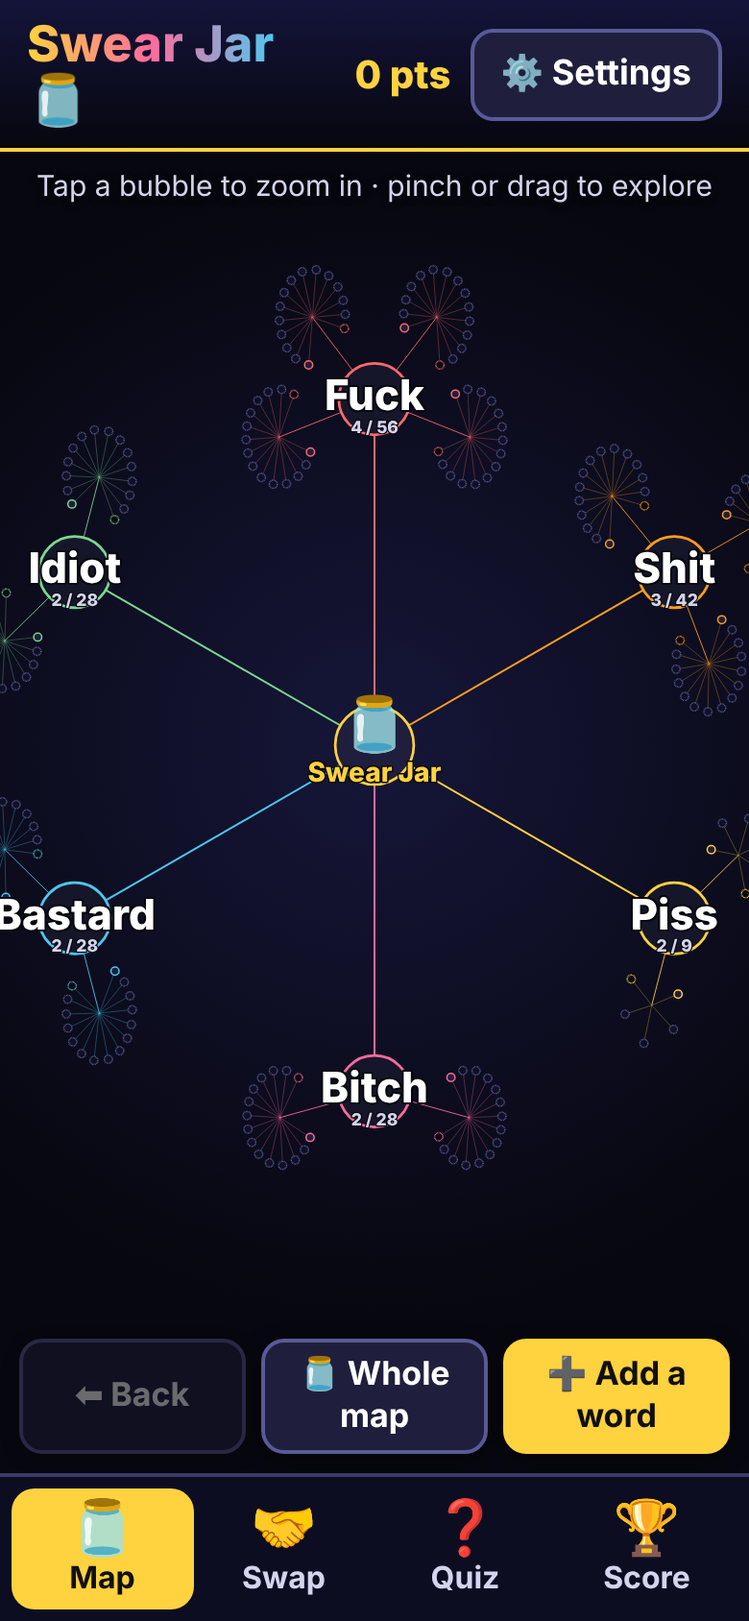
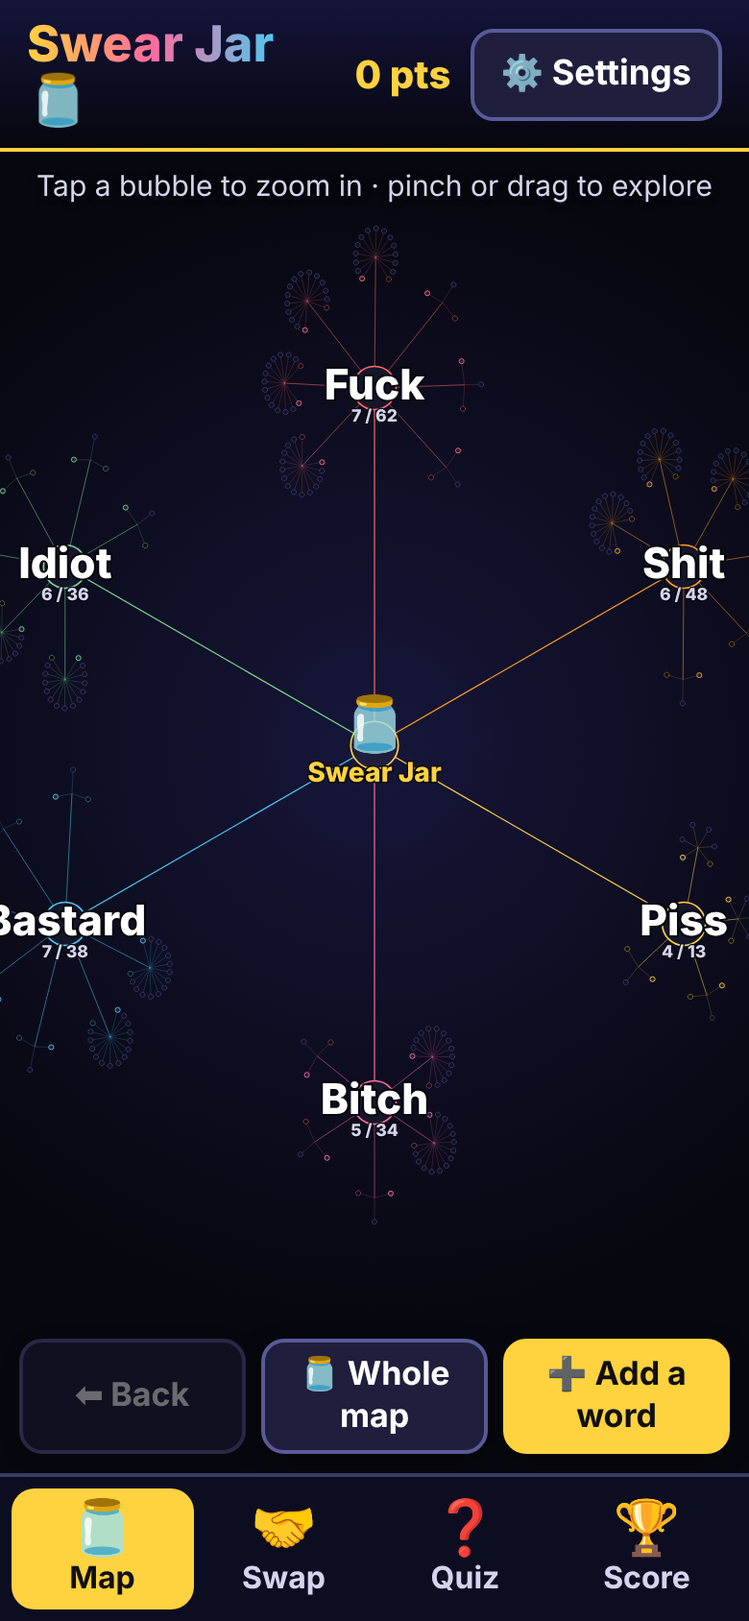
Add 20 checked Thai insults to the map, wrap long branch names, oval hub layout
Claude-Session: https://claude.ai/code/session_01YPnUbksUWiWfwngXyfLJkp

diff --git a/index.html b/index.html
@@ -2522,7 +2522,7 @@ var qrcode = function() {
 </script>
 <script>
 /* starter map: six basics, with equivalents taken from Speakeasy build 106 swearing tables (word|romanisation) */
-const SEED=[{"id":"fuck","en":"Fuck","vars":[{"id":"fuck","en":"Fuck!","w":{"en":"Fuck!","fr":"Putain !","zh":"卧槽！|wò cáo!","zt":"幹！|gàn!","yue":"屌！|diu2!","ja":"クソが！","ko":"씨발!","vi":"Đụ má!","ms":"Pukimak!","tl":"Putang ina!","es":"¡Chingada madre!","esp":"¡Joder!","esa":"¡La concha de la lora!","th":"เหี้ย!|hia!"}},{"id":"fuckoff","en":"Fuck off!","w":{"en":"Fuck off!","fr":"Dégage, putain !","zh":"滚蛋！|gǔn dàn!","zt":"滾開！|gǔn kāi!","yue":"躝開！|laan1 hoi1!","ja":"失せろ！","ko":"꺼져!","vi":"Cút đi!","ms":"Blah lah!","tl":"Lumayas ka!","es":"¡Vete a la chingada!","esp":"¡Vete a la mierda!","esa":"¡Andate a la mierda!","th":"ไสหัวไปเลย!|sai hua pai loei!"}},{"id":"fuckyou","en":"Fuck you!","w":{"en":"Fuck you!","fr":"Va te faire foutre !","zh":"去你妈的！|qù nǐ mā de!","zt":"幹你娘！|gàn nǐ niáng!","yue":"屌你老母！|diu2 nei5 lou5 mou2!","ja":"ふざけんな！","ko":"엿 먹어!","vi":"Đụ mẹ mày!","ms":"Pergi mampus!","tl":"Putang ina mo!","es":"¡Chinga tu madre!","esp":"¡Que te jodan!","esa":"¡Andá a cagar!","th":"พ่องมึง!|phong mueng!"}},{"id":"wtf","en":"What the fuck?","w":{"en":"What the fuck?","fr":"C'est quoi ce bordel ?","zh":"这他妈什么鬼？|zhè tā mā shén me guǐ?","zt":"這三小？|zhè sā xiǎo?","yue":"搞乜撚嘢呀？|gaau2 mat1 lan2 je5 aa3?","ja":"なんだよ、これ！？","ko":"이게 뭐야, 씨발?","vi":"Cái đéo gì vậy?","ms":"Apa benda ni, sial?","tl":"Ano ba 'to, putcha?","es":"¿Qué chingados?","esp":"¿Qué coño...?","esa":"¿Qué carajo?","th":"เหี้ยอะไรวะ?|hia a-rai wa?"}}]},{"id":"shit","en":"Shit","vars":[{"id":"shit","en":"Shit!","w":{"en":"Shit!","fr":"Merde !","zh":"妈的！|mā de!","zt":"靠北！|kào běi!","yue":"仆街！|puk1 gaai1!","ja":"くそっ！","ko":"젠장!","vi":"Chết tiệt!","ms":"Sial!","tl":"Leche!","es":"¡Mierda!","esp":"¡Mierda!","esa":"¡Mierda!","th":"ชิบหาย!|chip haai!"}},{"id":"holyshit","en":"Holy shit!","w":{"en":"Holy shit!","fr":"Putain de merde !","zh":"我靠！|wǒ kào!","zt":"我的天，靠！|wǒ de tiān, kào!","yue":"嘩，屌！|waa3, diu2!","ja":"マジかよ！","ko":"헐, 씨발!","vi":"Vãi!","ms":"Alamak, sial!","tl":"Putek!","es":"¡No mames!","esp":"¡Hostia!","esa":"¡Uh, la puta!","th":"เชี่ย!|chia!"}},{"id":"bullshit","en":"Bullshit!","w":{"en":"Bullshit!","fr":"C'est des conneries !","zh":"放屁！|fàng pì!","zt":"屁啦！|pì la!","yue":"車大炮！|ce1 daai6 paau3!","ja":"嘘つけ！","ko":"개소리!","vi":"Nói láo!","ms":"Merepek!","tl":"Kalokohan!","es":"¡Puras pendejadas!","esp":"¡Eso es una gilipollez!","esa":"¡Puro verso!","th":"ตอแหล!|tor-lae!"}}]},{"id":"piss","en":"Piss","vars":[{"id":"pissoff","en":"Piss off!","w":{"en":"Piss off!","fr":"Dégage !","es":"¡Lárgate!","de":"Verpiss dich!","th":"ไปให้พ้น!|pai hai phon!"}},{"id":"pissed","en":"I am pissed off","w":{"en":"I am pissed off","fr":"Ça me fait chier","es":"Estoy encabronado","th":"โมโหชิบหาย|moh-ho chip haai"}}]},{"id":"bitch","en":"Bitch","vars":[{"id":"bitch","en":"Bitch!","w":{"en":"Bitch!","fr":"Salope !","zh":"婊子！|biǎo zi!","zt":"賤人！|jiàn rén!","yue":"賤人！|zin6 jan4!","ja":"クソ女！","ko":"썅년!","vi":"Con đĩ!","ms":"Sundal!","tl":"Puta!","es":"¡Perra!","esp":"¡Zorra!","esa":"¡Puta!","th":"อีดอก!|ii dok!"}},{"id":"sob","en":"Son of a bitch!","w":{"en":"Son of a bitch!","fr":"Fils de pute !","zh":"狗娘养的！|gǒu niáng yǎng de!","zt":"狗娘養的！|gǒu niáng yǎng de!","yue":"契弟！|kai3 dai2!","ja":"くそったれ！","ko":"개자식!","vi":"Đồ chó đẻ!","ms":"Anak haram!","tl":"Anak ng puta!","es":"¡Hijo de la chingada!","esp":"¡Hijo de puta!","esa":"¡Hijo de puta!","th":"ไอ้ลูกหมา!|ai luuk maa!"}}]},{"id":"bastard","en":"Bastard","vars":[{"id":"bastard","en":"Bastard!","w":{"en":"Bastard!","fr":"Salaud !","zh":"混蛋！|hún dàn!","zt":"混蛋！|hún dàn!","yue":"衰人！|seoi1 jan4!","ja":"この野郎！","ko":"나쁜 놈!","vi":"Thằng chó!","ms":"Keparat!","tl":"Hayop ka!","es":"¡Cabrón!","esp":"¡Cabrón!","esa":"¡Turro!","th":"ไอ้เลว!|ai leo!"}},{"id":"asshole","en":"Asshole!","w":{"en":"Asshole!","fr":"Connard !","zh":"王八蛋！|wáng bā dàn!","zt":"王八蛋！|wáng bā dàn!","yue":"冚家剷！|ham6 gaa1 caan2!","ja":"クソ野郎！","ko":"개새끼!","vi":"Đồ khốn!","ms":"Bangsat!","tl":"Gago!","es":"¡Pendejo!","esp":"¡Gilipollas!","esa":"¡Forro!","th":"ไอ้สัตว์!|ai sat!"}}]},{"id":"idiot","en":"Idiot","vars":[{"id":"idiot","en":"Idiot!","w":{"en":"Idiot!","fr":"Imbécile !","zh":"白痴！|bái chī!","zt":"白癡！|bái chī!","yue":"白痴！|baak6 ci1!","ja":"バカ！","ko":"바보!","vi":"Đồ ngu!","ms":"Bodoh!","tl":"Tanga!","es":"¡Idiota!","esp":"¡Idiota!","esa":"¡Pelotudo!","th":"ไอ้โง่!|ai ngo!"}},{"id":"dumbass","en":"Dumbass!","w":{"en":"Dumbass!","fr":"Espèce de con !","zh":"傻逼！|shǎ bī!","zt":"智障！|zhì zhàng!","yue":"戇鳩！|ngong6 gau1!","ja":"アホ！","ko":"병신!","vi":"Óc chó!","ms":"Bangang!","tl":"Bobo!","es":"¡Baboso!","esp":"¡Imbécil!","esa":"¡Boludo!","th":"ไอ้ควาย!|ai khwaai!"}}]}];
+const SEED=[{"id": "fuck", "en": "Fuck", "vars": [{"id": "fuck", "en": "Fuck!", "w": {"en": "Fuck!", "fr": "Putain !", "zh": "卧槽！|wò cáo!", "zt": "幹！|gàn!", "yue": "屌！|diu2!", "ja": "クソが！", "ko": "씨발!", "vi": "Đụ má!", "ms": "Pukimak!", "tl": "Putang ina!", "es": "¡Chingada madre!", "esp": "¡Joder!", "esa": "¡La concha de la lora!", "th": "เหี้ย!|hia!"}}, {"id": "fuckoff", "en": "Fuck off!", "w": {"en": "Fuck off!", "fr": "Dégage, putain !", "zh": "滚蛋！|gǔn dàn!", "zt": "滾開！|gǔn kāi!", "yue": "躝開！|laan1 hoi1!", "ja": "失せろ！", "ko": "꺼져!", "vi": "Cút đi!", "ms": "Blah lah!", "tl": "Lumayas ka!", "es": "¡Vete a la chingada!", "esp": "¡Vete a la mierda!", "esa": "¡Andate a la mierda!", "th": "ไสหัวไปเลย!|sai hua pai loei!"}}, {"id": "fuckyou", "en": "Fuck you!", "w": {"en": "Fuck you!", "fr": "Va te faire foutre !", "zh": "去你妈的！|qù nǐ mā de!", "zt": "幹你娘！|gàn nǐ niáng!", "yue": "屌你老母！|diu2 nei5 lou5 mou2!", "ja": "ふざけんな！", "ko": "엿 먹어!", "vi": "Đụ mẹ mày!", "ms": "Pergi mampus!", "tl": "Putang ina mo!", "es": "¡Chinga tu madre!", "esp": "¡Que te jodan!", "esa": "¡Andá a cagar!", "th": "พ่องมึง!|phong mueng!"}}, {"id": "wtf", "en": "What the fuck?", "w": {"en": "What the fuck?", "fr": "C'est quoi ce bordel ?", "zh": "这他妈什么鬼？|zhè tā mā shén me guǐ?", "zt": "這三小？|zhè sā xiǎo?", "yue": "搞乜撚嘢呀？|gaau2 mat1 lan2 je5 aa3?", "ja": "なんだよ、これ！？", "ko": "이게 뭐야, 씨발?", "vi": "Cái đéo gì vậy?", "ms": "Apa benda ni, sial?", "tl": "Ano ba 'to, putcha?", "es": "¿Qué chingados?", "esp": "¿Qué coño...?", "esa": "¿Qué carajo?", "th": "เหี้ยอะไรวะ?|hia a-rai wa?"}}, {"id": "motherfucker", "en": "Motherfucker!", "w": {"en": "Motherfucker!", "th": "เย็ดแม่!|yet mae!"}}, {"id": "youfucker", "en": "You fucker!", "w": {"en": "You fucker!", "th": "ไอ้เหี้ย!|ai hia!"}}, {"id": "whatthehell", "en": "What the hell?", "w": {"en": "What the hell?", "th": "อะไรวะ?|a-rai wa?"}}]}, {"id": "shit", "en": "Shit", "vars": [{"id": "shit", "en": "Shit!", "w": {"en": "Shit!", "fr": "Merde !", "zh": "妈的！|mā de!", "zt": "靠北！|kào běi!", "yue": "仆街！|puk1 gaai1!", "ja": "くそっ！", "ko": "젠장!", "vi": "Chết tiệt!", "ms": "Sial!", "tl": "Leche!", "es": "¡Mierda!", "esp": "¡Mierda!", "esa": "¡Mierda!", "th": "ชิบหาย!|chip haai!"}}, {"id": "holyshit", "en": "Holy shit!", "w": {"en": "Holy shit!", "fr": "Putain de merde !", "zh": "我靠！|wǒ kào!", "zt": "我的天，靠！|wǒ de tiān, kào!", "yue": "嘩，屌！|waa3, diu2!", "ja": "マジかよ！", "ko": "헐, 씨발!", "vi": "Vãi!", "ms": "Alamak, sial!", "tl": "Putek!", "es": "¡No mames!", "esp": "¡Hostia!", "esa": "¡Uh, la puta!", "th": "เชี่ย!|chia!"}}, {"id": "bullshit", "en": "Bullshit!", "w": {"en": "Bullshit!", "fr": "C'est des conneries !", "zh": "放屁！|fàng pì!", "zt": "屁啦！|pì la!", "yue": "車大炮！|ce1 daai6 paau3!", "ja": "嘘つけ！", "ko": "개소리!", "vi": "Nói láo!", "ms": "Merepek!", "tl": "Kalokohan!", "es": "¡Puras pendejadas!", "esp": "¡Eso es una gilipollez!", "esa": "¡Puro verso!", "th": "ตอแหล!|tor-lae!"}}, {"id": "damn", "en": "Damn!", "w": {"en": "Damn!", "th": "ห่า!|haa!"}}, {"id": "shitdriving", "en": "Shit driving!", "w": {"en": "Shit driving!", "th": "ขับรถเหี้ยๆ!|khap rot hia hia!"}}, {"id": "ohno", "en": "Oh no!", "w": {"en": "Oh no!", "th": "เวรกรรม!|wen gam!"}}]}, {"id": "piss", "en": "Piss", "vars": [{"id": "pissoff", "en": "Piss off!", "w": {"en": "Piss off!", "fr": "Dégage !", "es": "¡Lárgate!", "de": "Verpiss dich!", "th": "ไปให้พ้น!|pai hai phon!"}}, {"id": "pissed", "en": "I am pissed off", "w": {"en": "I am pissed off", "fr": "Ça me fait chier", "es": "Estoy encabronado", "th": "โมโหชิบหาย|moh-ho chip haai"}}, {"id": "getlost", "en": "Get lost!", "w": {"en": "Get lost!", "th": "ไปให้พ้น!|pai hai phon!"}}, {"id": "annoying", "en": "So annoying!", "w": {"en": "So annoying!", "th": "ลำไย!|lam-yai!"}}]}, {"id": "bitch", "en": "Bitch", "vars": [{"id": "bitch", "en": "Bitch!", "w": {"en": "Bitch!", "fr": "Salope !", "zh": "婊子！|biǎo zi!", "zt": "賤人！|jiàn rén!", "yue": "賤人！|zin6 jan4!", "ja": "クソ女！", "ko": "썅년!", "vi": "Con đĩ!", "ms": "Sundal!", "tl": "Puta!", "es": "¡Perra!", "esp": "¡Zorra!", "esa": "¡Puta!", "th": "อีดอก!|ii dok!"}}, {"id": "sob", "en": "Son of a bitch!", "w": {"en": "Son of a bitch!", "fr": "Fils de pute !", "zh": "狗娘养的！|gǒu niáng yǎng de!", "zt": "狗娘養的！|gǒu niáng yǎng de!", "yue": "契弟！|kai3 dai2!", "ja": "くそったれ！", "ko": "개자식!", "vi": "Đồ chó đẻ!", "ms": "Anak haram!", "tl": "Anak ng puta!", "es": "¡Hijo de la chingada!", "esp": "¡Hijo de puta!", "esa": "¡Hijo de puta!", "th": "ไอ้ลูกหมา!|ai luuk maa!"}}, {"id": "slut", "en": "Slut!", "w": {"en": "Slut!", "th": "แรด!|raet!"}}, {"id": "whore", "en": "Whore!", "w": {"en": "Whore!", "th": "กะหรี่!|ka-rii!"}}, {"id": "sonofawhore", "en": "Son of a whore!", "w": {"en": "Son of a whore!", "th": "ลูกกะหรี่!|luuk ka-rii!"}}]}, {"id": "bastard", "en": "Bastard", "vars": [{"id": "bastard", "en": "Bastard!", "w": {"en": "Bastard!", "fr": "Salaud !", "zh": "混蛋！|hún dàn!", "zt": "混蛋！|hún dàn!", "yue": "衰人！|seoi1 jan4!", "ja": "この野郎！", "ko": "나쁜 놈!", "vi": "Thằng chó!", "ms": "Keparat!", "tl": "Hayop ka!", "es": "¡Cabrón!", "esp": "¡Cabrón!", "esa": "¡Turro!", "th": "ไอ้เลว!|ai leo!"}}, {"id": "asshole", "en": "Asshole!", "w": {"en": "Asshole!", "fr": "Connard !", "zh": "王八蛋！|wáng bā dàn!", "zt": "王八蛋！|wáng bā dàn!", "yue": "冚家剷！|ham6 gaa1 caan2!", "ja": "クソ野郎！", "ko": "개새끼!", "vi": "Đồ khốn!", "ms": "Bangsat!", "tl": "Gago!", "es": "¡Pendejo!", "esp": "¡Gilipollas!", "esa": "¡Forro!", "th": "ไอ้สัตว์!|ai sat!"}}, {"id": "youbastard", "en": "You bastard!", "w": {"en": "You bastard!", "th": "ไอ้เวร!|ai wen!"}}, {"id": "scumbag", "en": "Scumbag!", "w": {"en": "Scumbag!", "th": "ไอ้ระยำ!|ai ra-yam!"}}, {"id": "cuntface", "en": "Cunt face!", "w": {"en": "Cunt face!", "th": "หน้าหี!|naa hii!"}}, {"id": "dickhead", "en": "Dickhead!", "w": {"en": "Dickhead!", "th": "หัวควย!|hua kuay!"}}, {"id": "footface", "en": "Face like a foot!", "w": {"en": "Face like a foot!", "th": "หน้าส้นตีน!|naa son tiin!"}}]}, {"id": "idiot", "en": "Idiot", "vars": [{"id": "idiot", "en": "Idiot!", "w": {"en": "Idiot!", "fr": "Imbécile !", "zh": "白痴！|bái chī!", "zt": "白癡！|bái chī!", "yue": "白痴！|baak6 ci1!", "ja": "バカ！", "ko": "바보!", "vi": "Đồ ngu!", "ms": "Bodoh!", "tl": "Tanga!", "es": "¡Idiota!", "esp": "¡Idiota!", "esa": "¡Pelotudo!", "th": "ไอ้โง่!|ai ngo!"}}, {"id": "dumbass", "en": "Dumbass!", "w": {"en": "Dumbass!", "fr": "Espèce de con !", "zh": "傻逼！|shǎ bī!", "zt": "智障！|zhì zhàng!", "yue": "戇鳩！|ngong6 gau1!", "ja": "アホ！", "ko": "병신!", "vi": "Óc chó!", "ms": "Bangang!", "tl": "Bobo!", "es": "¡Baboso!", "esp": "¡Imbécil!", "esa": "¡Boludo!", "th": "ไอ้ควาย!|ai khwaai!"}}, {"id": "crazy", "en": "You're crazy!", "w": {"en": "You're crazy!", "th": "ไอ้บ้า!|ai baa!"}}, {"id": "shameless", "en": "Shameless!", "w": {"en": "Shameless!", "th": "หน้าด้าน!|naa daan!"}}, {"id": "coward", "en": "Coward!", "w": {"en": "Coward!", "th": "ไอ้หน้าตัวเมีย!|ai naa tua mia!"}}, {"id": "foulmouth", "en": "Foul mouth!", "w": {"en": "Foul mouth!", "th": "ปากหมา!|paak maa!"}}]}];
 /* Learning both ways: the app speaks the player's own language (Thai so far), labels the map in it,
    and gives a "sounds like" line for every built-in word. */
 const TH={
@@ -2600,7 +2600,7 @@ ja:{fuck:"kuso ga!",fuckoff:"usero!",fuckyou:"fuzakenna!",wtf:"nan da yo, kore!?
 ko:{fuck:"ssibal!",fuckoff:"kkeojyeo!",fuckyou:"yeot meogeo!",wtf:"ige mwoya, ssibal?",shit:"jeonjang!",holyshit:"heol, ssibal!",bullshit:"gaesori!",bitch:"ssyangnyeon!",sob:"gaejasik!",bastard:"nappeun nom!",asshole:"gaesaekki!",idiot:"babo!",dumbass:"byeongsin!"}};
 /* how the English phrases sound, written in Thai letters, for Thai speakers learning English */
 const EN_SOUND={th:{fuck:"ฟัค!",fuckoff:"ฟัค ออฟ!",fuckyou:"ฟัค ยู!",wtf:"วอท เดอะ ฟัค?",shit:"ชิท!",holyshit:"โฮลี่ ชิท!",bullshit:"บูลชิท!",pissoff:"พิส ออฟ!",pissed:"ไอ แอม พิสท์ ออฟ",
-  bitch:"บิทช์!",sob:"ซัน ออฟ อะ บิทช์!",bastard:"บาสตาร์ด!",asshole:"แอสโฮล!",idiot:"อิเดียท!",dumbass:"ดัมแอส!"}};
+  bitch:"บิทช์!",sob:"ซัน ออฟ อะ บิทช์!",bastard:"บาสตาร์ด!",asshole:"แอสโฮล!",idiot:"อิเดียท!",dumbass:"ดัมแอส!",motherfucker:"มาเธอร์ฟัคเกอร์!",youfucker:"ยู ฟัคเกอร์!",whatthehell:"วอท เดอะ เฮล?",damn:"แดม!",shitdriving:"ชิท ไดรวิ่ง!",ohno:"โอ โน!",getlost:"เก็ท ลอสท์!",annoying:"โซ อะนอยอิ้ง!",slut:"สลัท!",whore:"ฮอร์!",sonofawhore:"ซัน ออฟ อะ ฮอร์!",youbastard:"ยู บาสตาร์ด!",scumbag:"สกัมแบ็ก!",cuntface:"คันท์ เฟซ!",dickhead:"ดิ๊กเฮด!",footface:"เฟซ ไลค์ อะ ฟุท!",crazy:"ยัวร์ เครซี่!",shameless:"เชมเลส!",coward:"คาวเวิร์ด!",foulmouth:"ฟาวล์ เมาธ์!"}};
 /* static text in the page: elements carry their English text in data-t, placeholders in data-tp */
 function applyStatic(){document.documentElement.lang=S.me.lang==="th"?"th":"en";
   document.querySelectorAll("[data-t]").forEach(e=>{e.textContent=T(e.dataset.t)});
@@ -2695,19 +2695,22 @@ function build(){
     root.kids.push(hn)});
   // spacing so that neighbours on a ring never overlap
   const chordR=(k,cr,arc)=>k<2?0:cr*1.08/Math.sin(arc/(2*k));
+  // long branch names wrap onto up to three short lines so pills stay narrow
+  const wrap=t=>{const out=[];let cur="";String(t).split(/\s+/).forEach(w=>{if(cur&&(cur+" "+w).length>11){out.push(cur);cur=w}else cur=cur?cur+" "+w:w});if(cur)out.push(cur);
+    if(out.length>3){out[2]=out.slice(2).join(" ");out.length=3}return out};
   root.kids.forEach(h=>{
     h.kids.forEach(v=>{const k=v.kids.length;
       // oval perimeter is about 7.82 x the short radius; only ARC of it is used
-      v.pw=Math.max(220,v.en.length*30+70);v.ring=Math.max(230,k*2*LEAF_CR*1.05/(7.82*ARC/(2*Math.PI)));v.ry=v.ring*OVAL;v.size=v.ry+LEAF_CR+24});
+      v.lines=wrap(v.en);v.pw=Math.max(220,Math.max(...v.lines.map(x=>x.length))*30+70);v.ph=v.lines.length*58+50;v.ring=Math.max(230,k*2*LEAF_CR*1.05/(7.82*ARC/(2*Math.PI)));v.ry=v.ring*OVAL;v.size=v.ry+LEAF_CR+24});
     const cr=Math.max(300,...h.kids.map(v=>v.size));
-    h.ring=Math.max(cr+HUB_R+40,chordR(h.kids.length,cr,ARC));h.size=h.ring+cr});
+    h.ring=Math.max(cr+HUB_R+40,chordR(h.kids.length,cr,ARC)/1.15);h.ry=h.ring*OVAL;h.size=h.ry+cr});
   const hs=Math.max(...root.kids.map(h=>h.size));
   root.ring=Math.max(hs+ROOT_R,chordR(root.kids.length,hs,Math.PI*2));root.size=root.ring+hs;
   const place=(n,x,y,dir)=>{n.x=x;n.y=y;n.dir=dir;NODES[n.id]=n;if(!n.kids)return;const k=n.kids.length;
-    if(n.t==="var"){
+    if((n.t==="var"||n.t==="hub")&&k>1){
       // equal steps along the oval, leaving a gap towards the parent
-      const N=400,pts=[];let L=0,px=null,py=null;
-      for(let i=0;i<=N;i++){const t=dir-ARC/2+ARC*i/N,qx=Math.cos(t)*n.ring,qy=Math.sin(t)*n.ry;if(px!==null)L+=Math.hypot(qx-px,qy-py);pts.push([qx,qy,L]);px=qx;py=qy}
+      const N=400,pts=[],ry=n.ry||n.ring;let L=0,px=null,py=null;
+      for(let i=0;i<=N;i++){const t=dir-ARC/2+ARC*i/N,qx=Math.cos(t)*n.ring,qy=Math.sin(t)*ry;if(px!==null)L+=Math.hypot(qx-px,qy-py);pts.push([qx,qy,L]);px=qx;py=qy}
       n.kids.forEach((c,i)=>{c.parent=n;const want=L*(i+.5)/k;let j=0;while(j<N&&pts[j][2]<want)j++;
         const a=Math.atan2(pts[j][1],pts[j][0]);place(c,x+pts[j][0],y+pts[j][1],a)});return}
     n.kids.forEach((c,i)=>{c.parent=n;const a=n.t==="root"?-Math.PI/2+i*2*Math.PI/k:(k===1?dir:dir-ARC/2+ARC*(i+.5)/k);
@@ -2732,9 +2735,9 @@ function draw(){
     N.push(`<g data-n="${l.id}" class="nleaf${lk?" lk":""}"><circle cx="${l.x.toFixed(1)}" cy="${l.y.toFixed(1)}" r="${LEAF_R}" fill="${lk?"#101024":"#1f1f3d"}" stroke="${lk?"#5a5a99":l.c}" stroke-width="${lk?2.5:4}" ${lk?'stroke-dasharray="7 5"':""}/>`+
       txt(l.x,l.y+11,LG(l.lang).f,"lf")+(lk?txt(l.x+22,l.y-17,"🔒","lq"):"")+txt(l.x,l.y+LEAF_R+20,SN(l.lang),"ln")+
       (lk?"":txt(l.x,l.y+LEAF_R+38,l.w.length>13?l.w.slice(0,12)+"…":l.w,"lw"))+`</g>`)})));
-  r.kids.forEach(h=>h.kids.forEach(v=>{const[g,a]=progress(v);const w=v.pw;
-    N.push(`<g data-n="${v.id}" class="nvar">`+lab(v,"lv",`<rect x="${-w/2}" y="-50" width="${w}" height="100" rx="50" fill="#16162a" stroke="${v.c}" stroke-width="8"/>`+
-      txt(0,2,v.en,"vt")+txt(0,36,T("{0} of {1} learned",g,a),"vp"))+`</g>`)}));
+  r.kids.forEach(h=>h.kids.forEach(v=>{const[g,a]=progress(v);const w=v.pw,hh=v.ph,top=-hh/2;
+    N.push(`<g data-n="${v.id}" class="nvar">`+lab(v,"lv",`<rect x="${-w/2}" y="${top}" width="${w}" height="${hh}" rx="${Math.min(50,hh/2)}" fill="#16162a" stroke="${v.c}" stroke-width="8"/>`+
+      v.lines.map((ln,i)=>txt(0,top+62+i*58,ln,"vt")).join("")+txt(0,top+hh-18,T("{0} of {1} learned",g,a),"vp"))+`</g>`)}));
   r.kids.forEach(h=>{const[g,a]=progress(h);
     N.push(`<g data-n="${h.id}" class="nhub"><circle cx="${h.x.toFixed(1)}" cy="${h.y.toFixed(1)}" r="${HUB_R}" fill="#16162a" stroke="${h.c}" stroke-width="22"/>`+
       lab(h,"lh",txt(0,40,h.en,"ht",`fill="${h.c}"`)+txt(0,120,g+" / "+a,"hp"))+`</g>`)});
@@ -2748,14 +2751,14 @@ function vp(){const r=$("map").getBoundingClientRect();return{w:r.width||360,h:(
 function applyCam(){$("world").setAttribute("transform",`translate(${CAM.x.toFixed(1)},${CAM.y.toFixed(1)}) scale(${CAM.k.toFixed(4)})`);
   const k=CAM.k,m=$("map");m.classList.toggle("z1",k>=.1);m.classList.toggle("z2",k>=.3);m.classList.toggle("z3",k>=.5);m.classList.toggle("z4",k>=.9);
   // keep hub names at least 22px and branch names at least 17px on screen
-  const sc={lh:Math.max(1,22/(150*k)),lv:Math.max(1,17/(60*k))};
+  const sc={lh:Math.max(1,22/(150*k)),lv:Math.max(1,16/(52*k))};
   for(const c in sc){const v=Math.round(sc[c]*50)/50;if(LASTS[c]===v)continue;LASTS[c]=v;
     document.querySelectorAll("#world ."+c).forEach(g=>g.setAttribute("transform",`translate(${g.dataset.x},${g.dataset.y}) scale(${v})`))}
   $("mBack").disabled=FOCUS==="root"}
 function camFor(n){const{w,h}=vp();let rx,ry;
   if(n.t==="root"){rx=ry=n.ring+HUB_R*.8}
-  else if(n.t==="hub"){rx=ry=n.size}
-  else if(n.t==="var"){rx=Math.max(n.ring+LEAF_CR+10,n.pw/2+20);ry=n.ry+LEAF_CR+30}
+  else if(n.t==="hub"){const cr=n.size-n.ry;rx=n.ring+cr;ry=n.ry+cr}
+  else if(n.t==="var"){rx=Math.max(n.ring+LEAF_CR+10,n.pw/2+40);ry=n.ry+LEAF_CR+30}
   else{rx=ry=LEAF_CR*3}
   const k=Math.min(6,w/(2*rx),h/(2*ry));return{k,x:w/2-n.x*k,y:h/2-n.y*k}}
 function flyTo(n,instant){FOCUS=n.id;const to=camFor(n),from={...CAM},t0=performance.now(),D=instant?0:520;cancelAnimationFrame(ANIM);

diff --git a/src/seed.js b/src/seed.js
@@ -1,2 +1,2 @@
 /* starter map: six basics, with equivalents taken from Speakeasy build 106 swearing tables (word|romanisation) */
-const SEED=[{"id":"fuck","en":"Fuck","vars":[{"id":"fuck","en":"Fuck!","w":{"en":"Fuck!","fr":"Putain !","zh":"卧槽！|wò cáo!","zt":"幹！|gàn!","yue":"屌！|diu2!","ja":"クソが！","ko":"씨발!","vi":"Đụ má!","ms":"Pukimak!","tl":"Putang ina!","es":"¡Chingada madre!","esp":"¡Joder!","esa":"¡La concha de la lora!","th":"เหี้ย!|hia!"}},{"id":"fuckoff","en":"Fuck off!","w":{"en":"Fuck off!","fr":"Dégage, putain !","zh":"滚蛋！|gǔn dàn!","zt":"滾開！|gǔn kāi!","yue":"躝開！|laan1 hoi1!","ja":"失せろ！","ko":"꺼져!","vi":"Cút đi!","ms":"Blah lah!","tl":"Lumayas ka!","es":"¡Vete a la chingada!","esp":"¡Vete a la mierda!","esa":"¡Andate a la mierda!","th":"ไสหัวไปเลย!|sai hua pai loei!"}},{"id":"fuckyou","en":"Fuck you!","w":{"en":"Fuck you!","fr":"Va te faire foutre !","zh":"去你妈的！|qù nǐ mā de!","zt":"幹你娘！|gàn nǐ niáng!","yue":"屌你老母！|diu2 nei5 lou5 mou2!","ja":"ふざけんな！","ko":"엿 먹어!","vi":"Đụ mẹ mày!","ms":"Pergi mampus!","tl":"Putang ina mo!","es":"¡Chinga tu madre!","esp":"¡Que te jodan!","esa":"¡Andá a cagar!","th":"พ่องมึง!|phong mueng!"}},{"id":"wtf","en":"What the fuck?","w":{"en":"What the fuck?","fr":"C'est quoi ce bordel ?","zh":"这他妈什么鬼？|zhè tā mā shén me guǐ?","zt":"這三小？|zhè sā xiǎo?","yue":"搞乜撚嘢呀？|gaau2 mat1 lan2 je5 aa3?","ja":"なんだよ、これ！？","ko":"이게 뭐야, 씨발?","vi":"Cái đéo gì vậy?","ms":"Apa benda ni, sial?","tl":"Ano ba 'to, putcha?","es":"¿Qué chingados?","esp":"¿Qué coño...?","esa":"¿Qué carajo?","th":"เหี้ยอะไรวะ?|hia a-rai wa?"}}]},{"id":"shit","en":"Shit","vars":[{"id":"shit","en":"Shit!","w":{"en":"Shit!","fr":"Merde !","zh":"妈的！|mā de!","zt":"靠北！|kào běi!","yue":"仆街！|puk1 gaai1!","ja":"くそっ！","ko":"젠장!","vi":"Chết tiệt!","ms":"Sial!","tl":"Leche!","es":"¡Mierda!","esp":"¡Mierda!","esa":"¡Mierda!","th":"ชิบหาย!|chip haai!"}},{"id":"holyshit","en":"Holy shit!","w":{"en":"Holy shit!","fr":"Putain de merde !","zh":"我靠！|wǒ kào!","zt":"我的天，靠！|wǒ de tiān, kào!","yue":"嘩，屌！|waa3, diu2!","ja":"マジかよ！","ko":"헐, 씨발!","vi":"Vãi!","ms":"Alamak, sial!","tl":"Putek!","es":"¡No mames!","esp":"¡Hostia!","esa":"¡Uh, la puta!","th":"เชี่ย!|chia!"}},{"id":"bullshit","en":"Bullshit!","w":{"en":"Bullshit!","fr":"C'est des conneries !","zh":"放屁！|fàng pì!","zt":"屁啦！|pì la!","yue":"車大炮！|ce1 daai6 paau3!","ja":"嘘つけ！","ko":"개소리!","vi":"Nói láo!","ms":"Merepek!","tl":"Kalokohan!","es":"¡Puras pendejadas!","esp":"¡Eso es una gilipollez!","esa":"¡Puro verso!","th":"ตอแหล!|tor-lae!"}}]},{"id":"piss","en":"Piss","vars":[{"id":"pissoff","en":"Piss off!","w":{"en":"Piss off!","fr":"Dégage !","es":"¡Lárgate!","de":"Verpiss dich!","th":"ไปให้พ้น!|pai hai phon!"}},{"id":"pissed","en":"I am pissed off","w":{"en":"I am pissed off","fr":"Ça me fait chier","es":"Estoy encabronado","th":"โมโหชิบหาย|moh-ho chip haai"}}]},{"id":"bitch","en":"Bitch","vars":[{"id":"bitch","en":"Bitch!","w":{"en":"Bitch!","fr":"Salope !","zh":"婊子！|biǎo zi!","zt":"賤人！|jiàn rén!","yue":"賤人！|zin6 jan4!","ja":"クソ女！","ko":"썅년!","vi":"Con đĩ!","ms":"Sundal!","tl":"Puta!","es":"¡Perra!","esp":"¡Zorra!","esa":"¡Puta!","th":"อีดอก!|ii dok!"}},{"id":"sob","en":"Son of a bitch!","w":{"en":"Son of a bitch!","fr":"Fils de pute !","zh":"狗娘养的！|gǒu niáng yǎng de!","zt":"狗娘養的！|gǒu niáng yǎng de!","yue":"契弟！|kai3 dai2!","ja":"くそったれ！","ko":"개자식!","vi":"Đồ chó đẻ!","ms":"Anak haram!","tl":"Anak ng puta!","es":"¡Hijo de la chingada!","esp":"¡Hijo de puta!","esa":"¡Hijo de puta!","th":"ไอ้ลูกหมา!|ai luuk maa!"}}]},{"id":"bastard","en":"Bastard","vars":[{"id":"bastard","en":"Bastard!","w":{"en":"Bastard!","fr":"Salaud !","zh":"混蛋！|hún dàn!","zt":"混蛋！|hún dàn!","yue":"衰人！|seoi1 jan4!","ja":"この野郎！","ko":"나쁜 놈!","vi":"Thằng chó!","ms":"Keparat!","tl":"Hayop ka!","es":"¡Cabrón!","esp":"¡Cabrón!","esa":"¡Turro!","th":"ไอ้เลว!|ai leo!"}},{"id":"asshole","en":"Asshole!","w":{"en":"Asshole!","fr":"Connard !","zh":"王八蛋！|wáng bā dàn!","zt":"王八蛋！|wáng bā dàn!","yue":"冚家剷！|ham6 gaa1 caan2!","ja":"クソ野郎！","ko":"개새끼!","vi":"Đồ khốn!","ms":"Bangsat!","tl":"Gago!","es":"¡Pendejo!","esp":"¡Gilipollas!","esa":"¡Forro!","th":"ไอ้สัตว์!|ai sat!"}}]},{"id":"idiot","en":"Idiot","vars":[{"id":"idiot","en":"Idiot!","w":{"en":"Idiot!","fr":"Imbécile !","zh":"白痴！|bái chī!","zt":"白癡！|bái chī!","yue":"白痴！|baak6 ci1!","ja":"バカ！","ko":"바보!","vi":"Đồ ngu!","ms":"Bodoh!","tl":"Tanga!","es":"¡Idiota!","esp":"¡Idiota!","esa":"¡Pelotudo!","th":"ไอ้โง่!|ai ngo!"}},{"id":"dumbass","en":"Dumbass!","w":{"en":"Dumbass!","fr":"Espèce de con !","zh":"傻逼！|shǎ bī!","zt":"智障！|zhì zhàng!","yue":"戇鳩！|ngong6 gau1!","ja":"アホ！","ko":"병신!","vi":"Óc chó!","ms":"Bangang!","tl":"Bobo!","es":"¡Baboso!","esp":"¡Imbécil!","esa":"¡Boludo!","th":"ไอ้ควาย!|ai khwaai!"}}]}];
+const SEED=[{"id": "fuck", "en": "Fuck", "vars": [{"id": "fuck", "en": "Fuck!", "w": {"en": "Fuck!", "fr": "Putain !", "zh": "卧槽！|wò cáo!", "zt": "幹！|gàn!", "yue": "屌！|diu2!", "ja": "クソが！", "ko": "씨발!", "vi": "Đụ má!", "ms": "Pukimak!", "tl": "Putang ina!", "es": "¡Chingada madre!", "esp": "¡Joder!", "esa": "¡La concha de la lora!", "th": "เหี้ย!|hia!"}}, {"id": "fuckoff", "en": "Fuck off!", "w": {"en": "Fuck off!", "fr": "Dégage, putain !", "zh": "滚蛋！|gǔn dàn!", "zt": "滾開！|gǔn kāi!", "yue": "躝開！|laan1 hoi1!", "ja": "失せろ！", "ko": "꺼져!", "vi": "Cút đi!", "ms": "Blah lah!", "tl": "Lumayas ka!", "es": "¡Vete a la chingada!", "esp": "¡Vete a la mierda!", "esa": "¡Andate a la mierda!", "th": "ไสหัวไปเลย!|sai hua pai loei!"}}, {"id": "fuckyou", "en": "Fuck you!", "w": {"en": "Fuck you!", "fr": "Va te faire foutre !", "zh": "去你妈的！|qù nǐ mā de!", "zt": "幹你娘！|gàn nǐ niáng!", "yue": "屌你老母！|diu2 nei5 lou5 mou2!", "ja": "ふざけんな！", "ko": "엿 먹어!", "vi": "Đụ mẹ mày!", "ms": "Pergi mampus!", "tl": "Putang ina mo!", "es": "¡Chinga tu madre!", "esp": "¡Que te jodan!", "esa": "¡Andá a cagar!", "th": "พ่องมึง!|phong mueng!"}}, {"id": "wtf", "en": "What the fuck?", "w": {"en": "What the fuck?", "fr": "C'est quoi ce bordel ?", "zh": "这他妈什么鬼？|zhè tā mā shén me guǐ?", "zt": "這三小？|zhè sā xiǎo?", "yue": "搞乜撚嘢呀？|gaau2 mat1 lan2 je5 aa3?", "ja": "なんだよ、これ！？", "ko": "이게 뭐야, 씨발?", "vi": "Cái đéo gì vậy?", "ms": "Apa benda ni, sial?", "tl": "Ano ba 'to, putcha?", "es": "¿Qué chingados?", "esp": "¿Qué coño...?", "esa": "¿Qué carajo?", "th": "เหี้ยอะไรวะ?|hia a-rai wa?"}}, {"id": "motherfucker", "en": "Motherfucker!", "w": {"en": "Motherfucker!", "th": "เย็ดแม่!|yet mae!"}}, {"id": "youfucker", "en": "You fucker!", "w": {"en": "You fucker!", "th": "ไอ้เหี้ย!|ai hia!"}}, {"id": "whatthehell", "en": "What the hell?", "w": {"en": "What the hell?", "th": "อะไรวะ?|a-rai wa?"}}]}, {"id": "shit", "en": "Shit", "vars": [{"id": "shit", "en": "Shit!", "w": {"en": "Shit!", "fr": "Merde !", "zh": "妈的！|mā de!", "zt": "靠北！|kào běi!", "yue": "仆街！|puk1 gaai1!", "ja": "くそっ！", "ko": "젠장!", "vi": "Chết tiệt!", "ms": "Sial!", "tl": "Leche!", "es": "¡Mierda!", "esp": "¡Mierda!", "esa": "¡Mierda!", "th": "ชิบหาย!|chip haai!"}}, {"id": "holyshit", "en": "Holy shit!", "w": {"en": "Holy shit!", "fr": "Putain de merde !", "zh": "我靠！|wǒ kào!", "zt": "我的天，靠！|wǒ de tiān, kào!", "yue": "嘩，屌！|waa3, diu2!", "ja": "マジかよ！", "ko": "헐, 씨발!", "vi": "Vãi!", "ms": "Alamak, sial!", "tl": "Putek!", "es": "¡No mames!", "esp": "¡Hostia!", "esa": "¡Uh, la puta!", "th": "เชี่ย!|chia!"}}, {"id": "bullshit", "en": "Bullshit!", "w": {"en": "Bullshit!", "fr": "C'est des conneries !", "zh": "放屁！|fàng pì!", "zt": "屁啦！|pì la!", "yue": "車大炮！|ce1 daai6 paau3!", "ja": "嘘つけ！", "ko": "개소리!", "vi": "Nói láo!", "ms": "Merepek!", "tl": "Kalokohan!", "es": "¡Puras pendejadas!", "esp": "¡Eso es una gilipollez!", "esa": "¡Puro verso!", "th": "ตอแหล!|tor-lae!"}}, {"id": "damn", "en": "Damn!", "w": {"en": "Damn!", "th": "ห่า!|haa!"}}, {"id": "shitdriving", "en": "Shit driving!", "w": {"en": "Shit driving!", "th": "ขับรถเหี้ยๆ!|khap rot hia hia!"}}, {"id": "ohno", "en": "Oh no!", "w": {"en": "Oh no!", "th": "เวรกรรม!|wen gam!"}}]}, {"id": "piss", "en": "Piss", "vars": [{"id": "pissoff", "en": "Piss off!", "w": {"en": "Piss off!", "fr": "Dégage !", "es": "¡Lárgate!", "de": "Verpiss dich!", "th": "ไปให้พ้น!|pai hai phon!"}}, {"id": "pissed", "en": "I am pissed off", "w": {"en": "I am pissed off", "fr": "Ça me fait chier", "es": "Estoy encabronado", "th": "โมโหชิบหาย|moh-ho chip haai"}}, {"id": "getlost", "en": "Get lost!", "w": {"en": "Get lost!", "th": "ไปให้พ้น!|pai hai phon!"}}, {"id": "annoying", "en": "So annoying!", "w": {"en": "So annoying!", "th": "ลำไย!|lam-yai!"}}]}, {"id": "bitch", "en": "Bitch", "vars": [{"id": "bitch", "en": "Bitch!", "w": {"en": "Bitch!", "fr": "Salope !", "zh": "婊子！|biǎo zi!", "zt": "賤人！|jiàn rén!", "yue": "賤人！|zin6 jan4!", "ja": "クソ女！", "ko": "썅년!", "vi": "Con đĩ!", "ms": "Sundal!", "tl": "Puta!", "es": "¡Perra!", "esp": "¡Zorra!", "esa": "¡Puta!", "th": "อีดอก!|ii dok!"}}, {"id": "sob", "en": "Son of a bitch!", "w": {"en": "Son of a bitch!", "fr": "Fils de pute !", "zh": "狗娘养的！|gǒu niáng yǎng de!", "zt": "狗娘養的！|gǒu niáng yǎng de!", "yue": "契弟！|kai3 dai2!", "ja": "くそったれ！", "ko": "개자식!", "vi": "Đồ chó đẻ!", "ms": "Anak haram!", "tl": "Anak ng puta!", "es": "¡Hijo de la chingada!", "esp": "¡Hijo de puta!", "esa": "¡Hijo de puta!", "th": "ไอ้ลูกหมา!|ai luuk maa!"}}, {"id": "slut", "en": "Slut!", "w": {"en": "Slut!", "th": "แรด!|raet!"}}, {"id": "whore", "en": "Whore!", "w": {"en": "Whore!", "th": "กะหรี่!|ka-rii!"}}, {"id": "sonofawhore", "en": "Son of a whore!", "w": {"en": "Son of a whore!", "th": "ลูกกะหรี่!|luuk ka-rii!"}}]}, {"id": "bastard", "en": "Bastard", "vars": [{"id": "bastard", "en": "Bastard!", "w": {"en": "Bastard!", "fr": "Salaud !", "zh": "混蛋！|hún dàn!", "zt": "混蛋！|hún dàn!", "yue": "衰人！|seoi1 jan4!", "ja": "この野郎！", "ko": "나쁜 놈!", "vi": "Thằng chó!", "ms": "Keparat!", "tl": "Hayop ka!", "es": "¡Cabrón!", "esp": "¡Cabrón!", "esa": "¡Turro!", "th": "ไอ้เลว!|ai leo!"}}, {"id": "asshole", "en": "Asshole!", "w": {"en": "Asshole!", "fr": "Connard !", "zh": "王八蛋！|wáng bā dàn!", "zt": "王八蛋！|wáng bā dàn!", "yue": "冚家剷！|ham6 gaa1 caan2!", "ja": "クソ野郎！", "ko": "개새끼!", "vi": "Đồ khốn!", "ms": "Bangsat!", "tl": "Gago!", "es": "¡Pendejo!", "esp": "¡Gilipollas!", "esa": "¡Forro!", "th": "ไอ้สัตว์!|ai sat!"}}, {"id": "youbastard", "en": "You bastard!", "w": {"en": "You bastard!", "th": "ไอ้เวร!|ai wen!"}}, {"id": "scumbag", "en": "Scumbag!", "w": {"en": "Scumbag!", "th": "ไอ้ระยำ!|ai ra-yam!"}}, {"id": "cuntface", "en": "Cunt face!", "w": {"en": "Cunt face!", "th": "หน้าหี!|naa hii!"}}, {"id": "dickhead", "en": "Dickhead!", "w": {"en": "Dickhead!", "th": "หัวควย!|hua kuay!"}}, {"id": "footface", "en": "Face like a foot!", "w": {"en": "Face like a foot!", "th": "หน้าส้นตีน!|naa son tiin!"}}]}, {"id": "idiot", "en": "Idiot", "vars": [{"id": "idiot", "en": "Idiot!", "w": {"en": "Idiot!", "fr": "Imbécile !", "zh": "白痴！|bái chī!", "zt": "白癡！|bái chī!", "yue": "白痴！|baak6 ci1!", "ja": "バカ！", "ko": "바보!", "vi": "Đồ ngu!", "ms": "Bodoh!", "tl": "Tanga!", "es": "¡Idiota!", "esp": "¡Idiota!", "esa": "¡Pelotudo!", "th": "ไอ้โง่!|ai ngo!"}}, {"id": "dumbass", "en": "Dumbass!", "w": {"en": "Dumbass!", "fr": "Espèce de con !", "zh": "傻逼！|shǎ bī!", "zt": "智障！|zhì zhàng!", "yue": "戇鳩！|ngong6 gau1!", "ja": "アホ！", "ko": "병신!", "vi": "Óc chó!", "ms": "Bangang!", "tl": "Bobo!", "es": "¡Baboso!", "esp": "¡Imbécil!", "esa": "¡Boludo!", "th": "ไอ้ควาย!|ai khwaai!"}}, {"id": "crazy", "en": "You're crazy!", "w": {"en": "You're crazy!", "th": "ไอ้บ้า!|ai baa!"}}, {"id": "shameless", "en": "Shameless!", "w": {"en": "Shameless!", "th": "หน้าด้าน!|naa daan!"}}, {"id": "coward", "en": "Coward!", "w": {"en": "Coward!", "th": "ไอ้หน้าตัวเมีย!|ai naa tua mia!"}}, {"id": "foulmouth", "en": "Foul mouth!", "w": {"en": "Foul mouth!", "th": "ปากหมา!|paak maa!"}}]}];

diff --git a/src/app.js b/src/app.js
@@ -88,19 +88,22 @@ function build(){
     root.kids.push(hn)});
   // spacing so that neighbours on a ring never overlap
   const chordR=(k,cr,arc)=>k<2?0:cr*1.08/Math.sin(arc/(2*k));
+  // long branch names wrap onto up to three short lines so pills stay narrow
+  const wrap=t=>{const out=[];let cur="";String(t).split(/\s+/).forEach(w=>{if(cur&&(cur+" "+w).length>11){out.push(cur);cur=w}else cur=cur?cur+" "+w:w});if(cur)out.push(cur);
+    if(out.length>3){out[2]=out.slice(2).join(" ");out.length=3}return out};
   root.kids.forEach(h=>{
     h.kids.forEach(v=>{const k=v.kids.length;
       // oval perimeter is about 7.82 x the short radius; only ARC of it is used
-      v.pw=Math.max(220,v.en.length*30+70);v.ring=Math.max(230,k*2*LEAF_CR*1.05/(7.82*ARC/(2*Math.PI)));v.ry=v.ring*OVAL;v.size=v.ry+LEAF_CR+24});
+      v.lines=wrap(v.en);v.pw=Math.max(220,Math.max(...v.lines.map(x=>x.length))*30+70);v.ph=v.lines.length*58+50;v.ring=Math.max(230,k*2*LEAF_CR*1.05/(7.82*ARC/(2*Math.PI)));v.ry=v.ring*OVAL;v.size=v.ry+LEAF_CR+24});
     const cr=Math.max(300,...h.kids.map(v=>v.size));
-    h.ring=Math.max(cr+HUB_R+40,chordR(h.kids.length,cr,ARC));h.size=h.ring+cr});
+    h.ring=Math.max(cr+HUB_R+40,chordR(h.kids.length,cr,ARC)/1.15);h.ry=h.ring*OVAL;h.size=h.ry+cr});
   const hs=Math.max(...root.kids.map(h=>h.size));
   root.ring=Math.max(hs+ROOT_R,chordR(root.kids.length,hs,Math.PI*2));root.size=root.ring+hs;
   const place=(n,x,y,dir)=>{n.x=x;n.y=y;n.dir=dir;NODES[n.id]=n;if(!n.kids)return;const k=n.kids.length;
-    if(n.t==="var"){
+    if((n.t==="var"||n.t==="hub")&&k>1){
       // equal steps along the oval, leaving a gap towards the parent
-      const N=400,pts=[];let L=0,px=null,py=null;
-      for(let i=0;i<=N;i++){const t=dir-ARC/2+ARC*i/N,qx=Math.cos(t)*n.ring,qy=Math.sin(t)*n.ry;if(px!==null)L+=Math.hypot(qx-px,qy-py);pts.push([qx,qy,L]);px=qx;py=qy}
+      const N=400,pts=[],ry=n.ry||n.ring;let L=0,px=null,py=null;
+      for(let i=0;i<=N;i++){const t=dir-ARC/2+ARC*i/N,qx=Math.cos(t)*n.ring,qy=Math.sin(t)*ry;if(px!==null)L+=Math.hypot(qx-px,qy-py);pts.push([qx,qy,L]);px=qx;py=qy}
       n.kids.forEach((c,i)=>{c.parent=n;const want=L*(i+.5)/k;let j=0;while(j<N&&pts[j][2]<want)j++;
         const a=Math.atan2(pts[j][1],pts[j][0]);place(c,x+pts[j][0],y+pts[j][1],a)});return}
     n.kids.forEach((c,i)=>{c.parent=n;const a=n.t==="root"?-Math.PI/2+i*2*Math.PI/k:(k===1?dir:dir-ARC/2+ARC*(i+.5)/k);
@@ -125,9 +128,9 @@ function draw(){
     N.push(`<g data-n="${l.id}" class="nleaf${lk?" lk":""}"><circle cx="${l.x.toFixed(1)}" cy="${l.y.toFixed(1)}" r="${LEAF_R}" fill="${lk?"#101024":"#1f1f3d"}" stroke="${lk?"#5a5a99":l.c}" stroke-width="${lk?2.5:4}" ${lk?'stroke-dasharray="7 5"':""}/>`+
       txt(l.x,l.y+11,LG(l.lang).f,"lf")+(lk?txt(l.x+22,l.y-17,"🔒","lq"):"")+txt(l.x,l.y+LEAF_R+20,SN(l.lang),"ln")+
       (lk?"":txt(l.x,l.y+LEAF_R+38,l.w.length>13?l.w.slice(0,12)+"…":l.w,"lw"))+`</g>`)})));
-  r.kids.forEach(h=>h.kids.forEach(v=>{const[g,a]=progress(v);const w=v.pw;
-    N.push(`<g data-n="${v.id}" class="nvar">`+lab(v,"lv",`<rect x="${-w/2}" y="-50" width="${w}" height="100" rx="50" fill="#16162a" stroke="${v.c}" stroke-width="8"/>`+
-      txt(0,2,v.en,"vt")+txt(0,36,T("{0} of {1} learned",g,a),"vp"))+`</g>`)}));
+  r.kids.forEach(h=>h.kids.forEach(v=>{const[g,a]=progress(v);const w=v.pw,hh=v.ph,top=-hh/2;
+    N.push(`<g data-n="${v.id}" class="nvar">`+lab(v,"lv",`<rect x="${-w/2}" y="${top}" width="${w}" height="${hh}" rx="${Math.min(50,hh/2)}" fill="#16162a" stroke="${v.c}" stroke-width="8"/>`+
+      v.lines.map((ln,i)=>txt(0,top+62+i*58,ln,"vt")).join("")+txt(0,top+hh-18,T("{0} of {1} learned",g,a),"vp"))+`</g>`)}));
   r.kids.forEach(h=>{const[g,a]=progress(h);
     N.push(`<g data-n="${h.id}" class="nhub"><circle cx="${h.x.toFixed(1)}" cy="${h.y.toFixed(1)}" r="${HUB_R}" fill="#16162a" stroke="${h.c}" stroke-width="22"/>`+
       lab(h,"lh",txt(0,40,h.en,"ht",`fill="${h.c}"`)+txt(0,120,g+" / "+a,"hp"))+`</g>`)});
@@ -141,14 +144,14 @@ function vp(){const r=$("map").getBoundingClientRect();return{w:r.width||360,h:(
 function applyCam(){$("world").setAttribute("transform",`translate(${CAM.x.toFixed(1)},${CAM.y.toFixed(1)}) scale(${CAM.k.toFixed(4)})`);
   const k=CAM.k,m=$("map");m.classList.toggle("z1",k>=.1);m.classList.toggle("z2",k>=.3);m.classList.toggle("z3",k>=.5);m.classList.toggle("z4",k>=.9);
   // keep hub names at least 22px and branch names at least 17px on screen
-  const sc={lh:Math.max(1,22/(150*k)),lv:Math.max(1,17/(60*k))};
+  const sc={lh:Math.max(1,22/(150*k)),lv:Math.max(1,16/(52*k))};
   for(const c in sc){const v=Math.round(sc[c]*50)/50;if(LASTS[c]===v)continue;LASTS[c]=v;
     document.querySelectorAll("#world ."+c).forEach(g=>g.setAttribute("transform",`translate(${g.dataset.x},${g.dataset.y}) scale(${v})`))}
   $("mBack").disabled=FOCUS==="root"}
 function camFor(n){const{w,h}=vp();let rx,ry;
   if(n.t==="root"){rx=ry=n.ring+HUB_R*.8}
-  else if(n.t==="hub"){rx=ry=n.size}
-  else if(n.t==="var"){rx=Math.max(n.ring+LEAF_CR+10,n.pw/2+20);ry=n.ry+LEAF_CR+30}
+  else if(n.t==="hub"){const cr=n.size-n.ry;rx=n.ring+cr;ry=n.ry+cr}
+  else if(n.t==="var"){rx=Math.max(n.ring+LEAF_CR+10,n.pw/2+40);ry=n.ry+LEAF_CR+30}
   else{rx=ry=LEAF_CR*3}
   const k=Math.min(6,w/(2*rx),h/(2*ry));return{k,x:w/2-n.x*k,y:h/2-n.y*k}}
 function flyTo(n,instant){FOCUS=n.id;const to=camFor(n),from={...CAM},t0=performance.now(),D=instant?0:520;cancelAnimationFrame(ANIM);

diff --git a/src/i18n.js b/src/i18n.js
@@ -75,7 +75,7 @@ ja:{fuck:"kuso ga!",fuckoff:"usero!",fuckyou:"fuzakenna!",wtf:"nan da yo, kore!?
 ko:{fuck:"ssibal!",fuckoff:"kkeojyeo!",fuckyou:"yeot meogeo!",wtf:"ige mwoya, ssibal?",shit:"jeonjang!",holyshit:"heol, ssibal!",bullshit:"gaesori!",bitch:"ssyangnyeon!",sob:"gaejasik!",bastard:"nappeun nom!",asshole:"gaesaekki!",idiot:"babo!",dumbass:"byeongsin!"}};
 /* how the English phrases sound, written in Thai letters, for Thai speakers learning English */
 const EN_SOUND={th:{fuck:"ฟัค!",fuckoff:"ฟัค ออฟ!",fuckyou:"ฟัค ยู!",wtf:"วอท เดอะ ฟัค?",shit:"ชิท!",holyshit:"โฮลี่ ชิท!",bullshit:"บูลชิท!",pissoff:"พิส ออฟ!",pissed:"ไอ แอม พิสท์ ออฟ",
-  bitch:"บิทช์!",sob:"ซัน ออฟ อะ บิทช์!",bastard:"บาสตาร์ด!",asshole:"แอสโฮล!",idiot:"อิเดียท!",dumbass:"ดัมแอส!"}};
+  bitch:"บิทช์!",sob:"ซัน ออฟ อะ บิทช์!",bastard:"บาสตาร์ด!",asshole:"แอสโฮล!",idiot:"อิเดียท!",dumbass:"ดัมแอส!",motherfucker:"มาเธอร์ฟัคเกอร์!",youfucker:"ยู ฟัคเกอร์!",whatthehell:"วอท เดอะ เฮล?",damn:"แดม!",shitdriving:"ชิท ไดรวิ่ง!",ohno:"โอ โน!",getlost:"เก็ท ลอสท์!",annoying:"โซ อะนอยอิ้ง!",slut:"สลัท!",whore:"ฮอร์!",sonofawhore:"ซัน ออฟ อะ ฮอร์!",youbastard:"ยู บาสตาร์ด!",scumbag:"สกัมแบ็ก!",cuntface:"คันท์ เฟซ!",dickhead:"ดิ๊กเฮด!",footface:"เฟซ ไลค์ อะ ฟุท!",crazy:"ยัวร์ เครซี่!",shameless:"เชมเลส!",coward:"คาวเวิร์ด!",foulmouth:"ฟาวล์ เมาธ์!"}};
 /* static text in the page: elements carry their English text in data-t, placeholders in data-tp */
 function applyStatic(){document.documentElement.lang=S.me.lang==="th"?"th":"en";
   document.querySelectorAll("[data-t]").forEach(e=>{e.textContent=T(e.dataset.t)});

diff --git a/tests/overlap.test.js b/tests/overlap.test.js
@@ -1,0 +1,13 @@
+// zooms to every hub and branch and reports pills or bubbles that overlap on screen
+const {chromium}=require('playwright');(async()=>{const b=await chromium.launch();
+for(const lang of ['en','th']){const p=await (await b.newContext({viewport:{width:390,height:844}})).newPage();const errs=[];p.on('pageerror',e=>errs.push(e.message));
+await p.goto('http://localhost:8765/');await p.selectOption('#stLang',lang);await p.click('#stClose');await p.waitForTimeout(400);
+const res=await p.evaluate(()=>{const out=[];const ov=(a,b)=>a.left<b.right-2&&b.left<a.right-2&&a.top<b.bottom-2&&b.top<a.bottom-2;
+  const check=(sel,label)=>{const r=[...document.querySelectorAll(sel)].map(e=>({id:e.closest('[data-n]').dataset.n,r:e.getBoundingClientRect()})).filter(x=>x.r.width>4&&x.r.right>0&&x.r.left<390&&x.r.bottom>0&&x.r.top<760);
+    for(let i=0;i<r.length;i++)for(let j=i+1;j<r.length;j++)if(ov(r[i].r,r[j].r))out.push(label+': '+r[i].id+' x '+r[j].id)};
+  for(const h of TREE.kids){flyTo(h,true);check('.nvar rect',h.id);
+    for(const v of h.kids){flyTo(v,true);check('.nleaf circle,.nadd circle,.nvar rect',v.id);
+      const r=document.querySelector(`[data-n="${v.id}"] rect`).getBoundingClientRect();if(r.width>380)out.push('wide pill '+v.id+' '+Math.round(r.width));}}
+  flyTo(TREE,true);check('.nhub circle','root');return out});
+console.log(lang,res.length?res:'no overlaps',errs);}
+await b.close()})()
